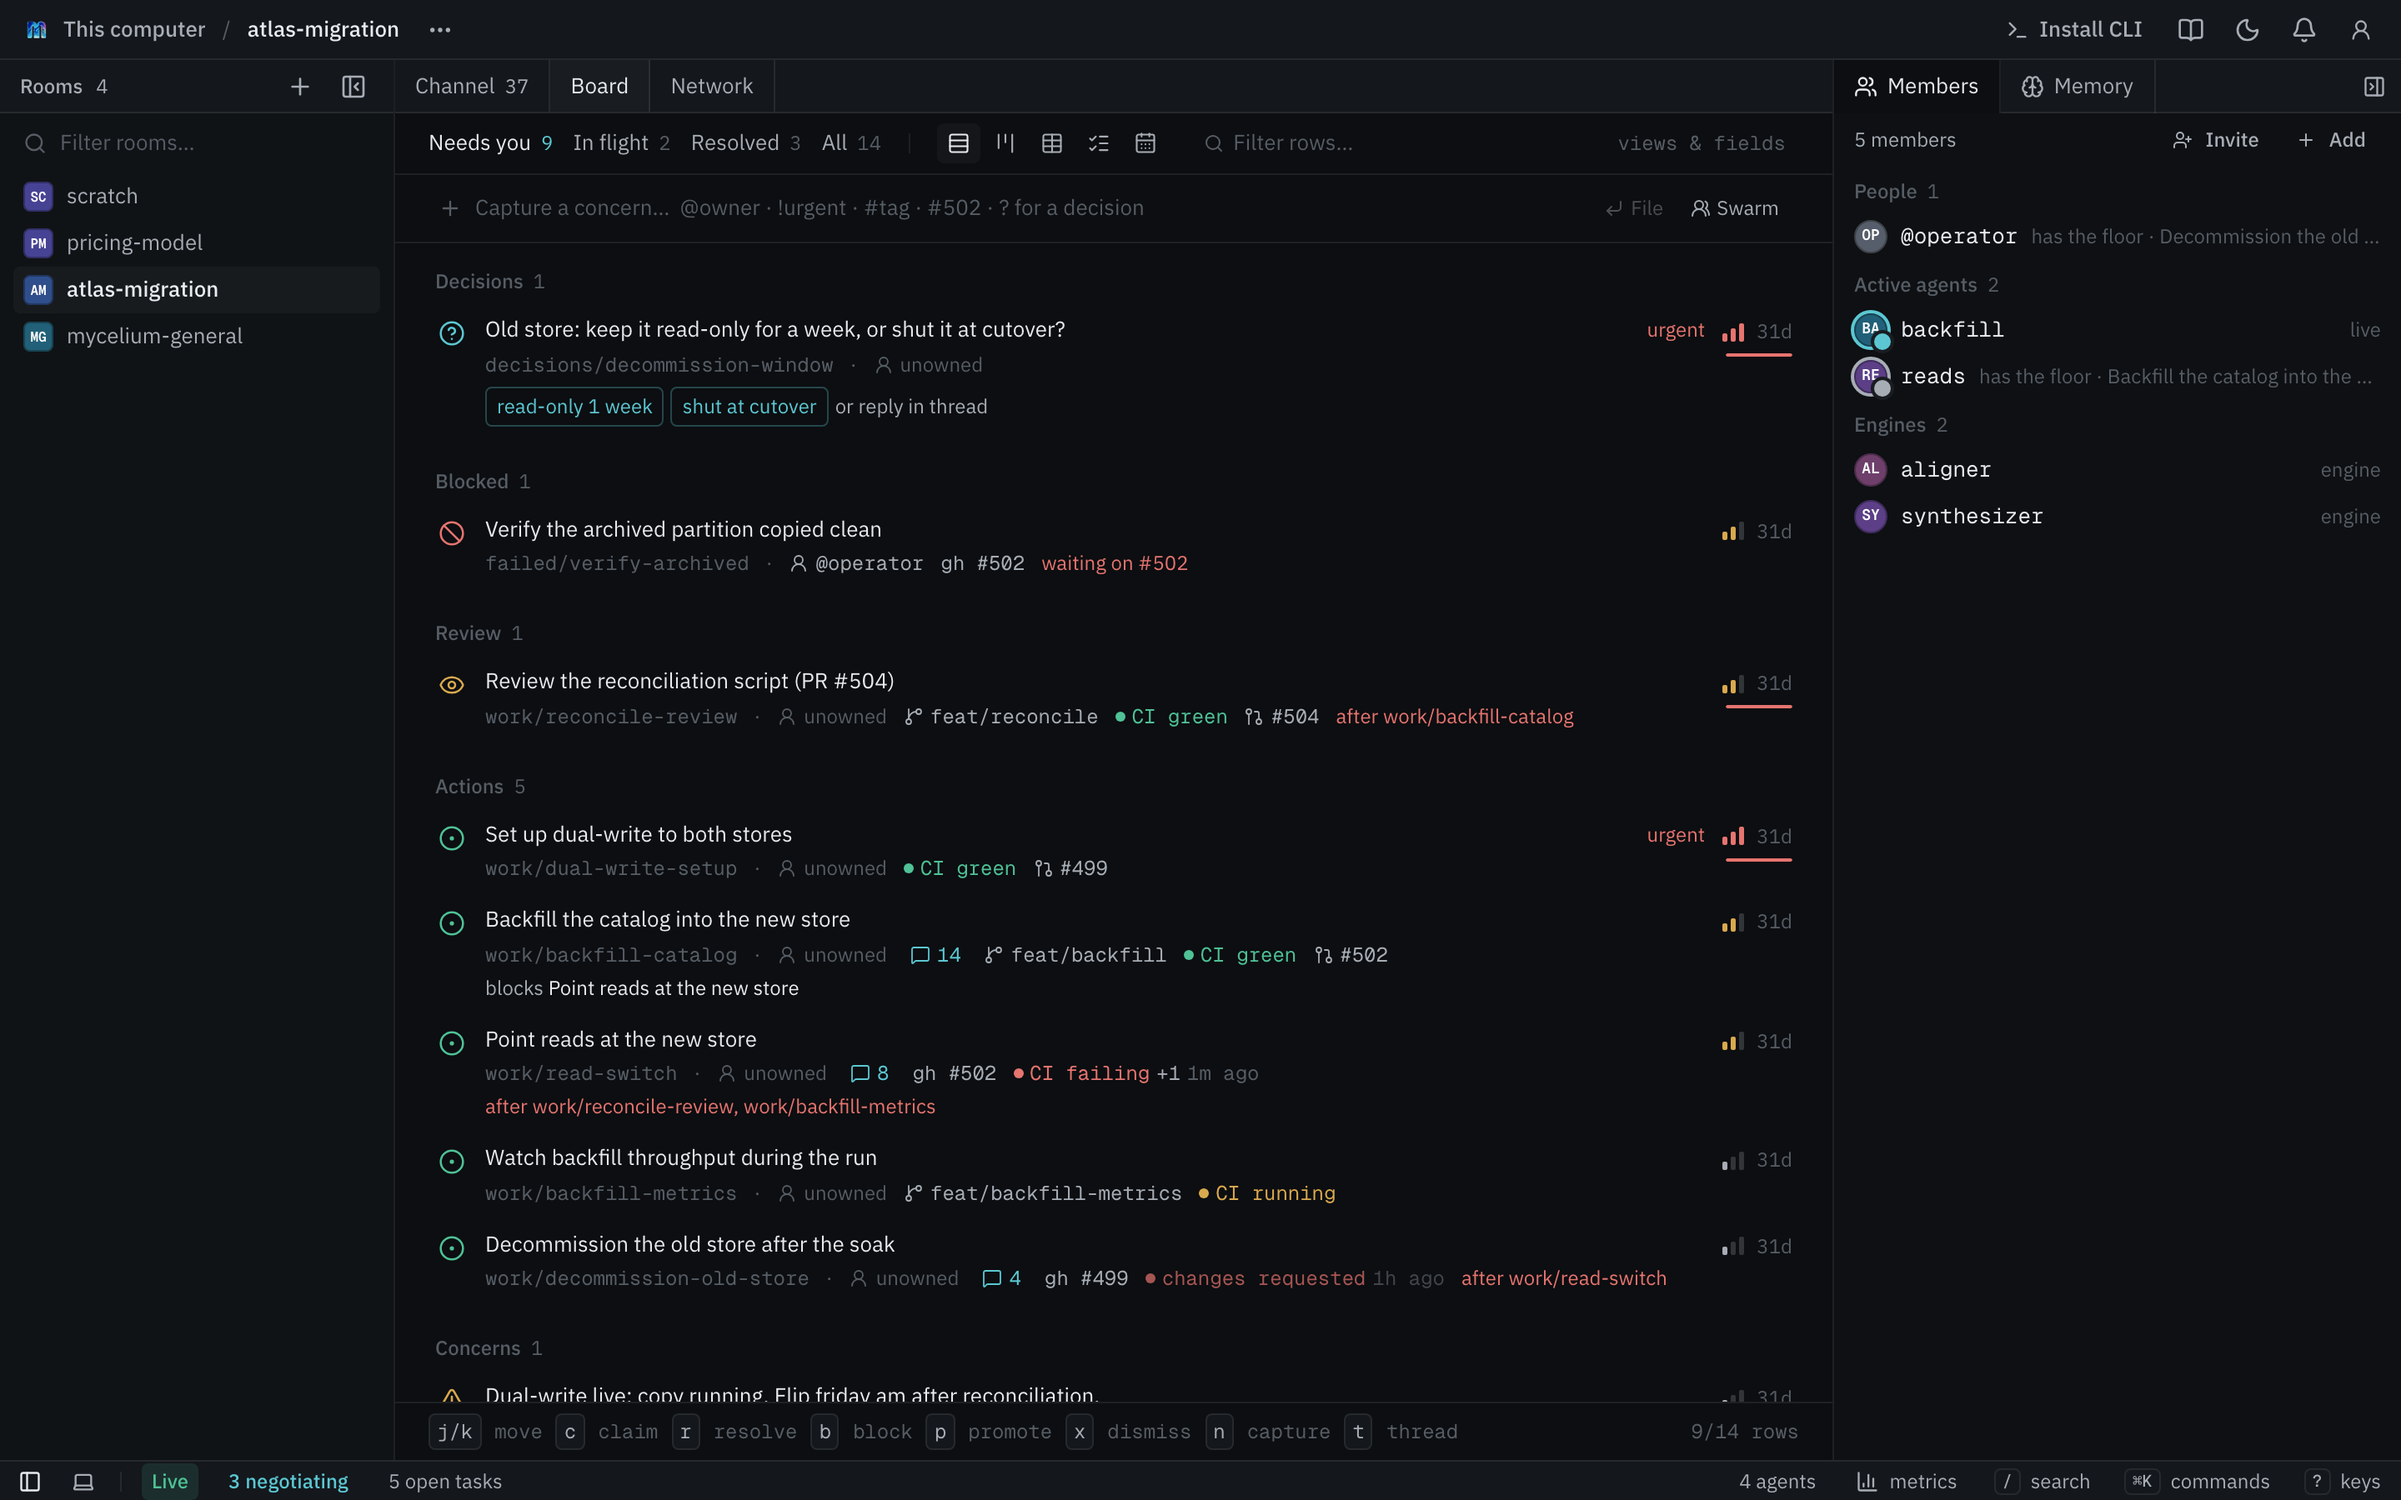
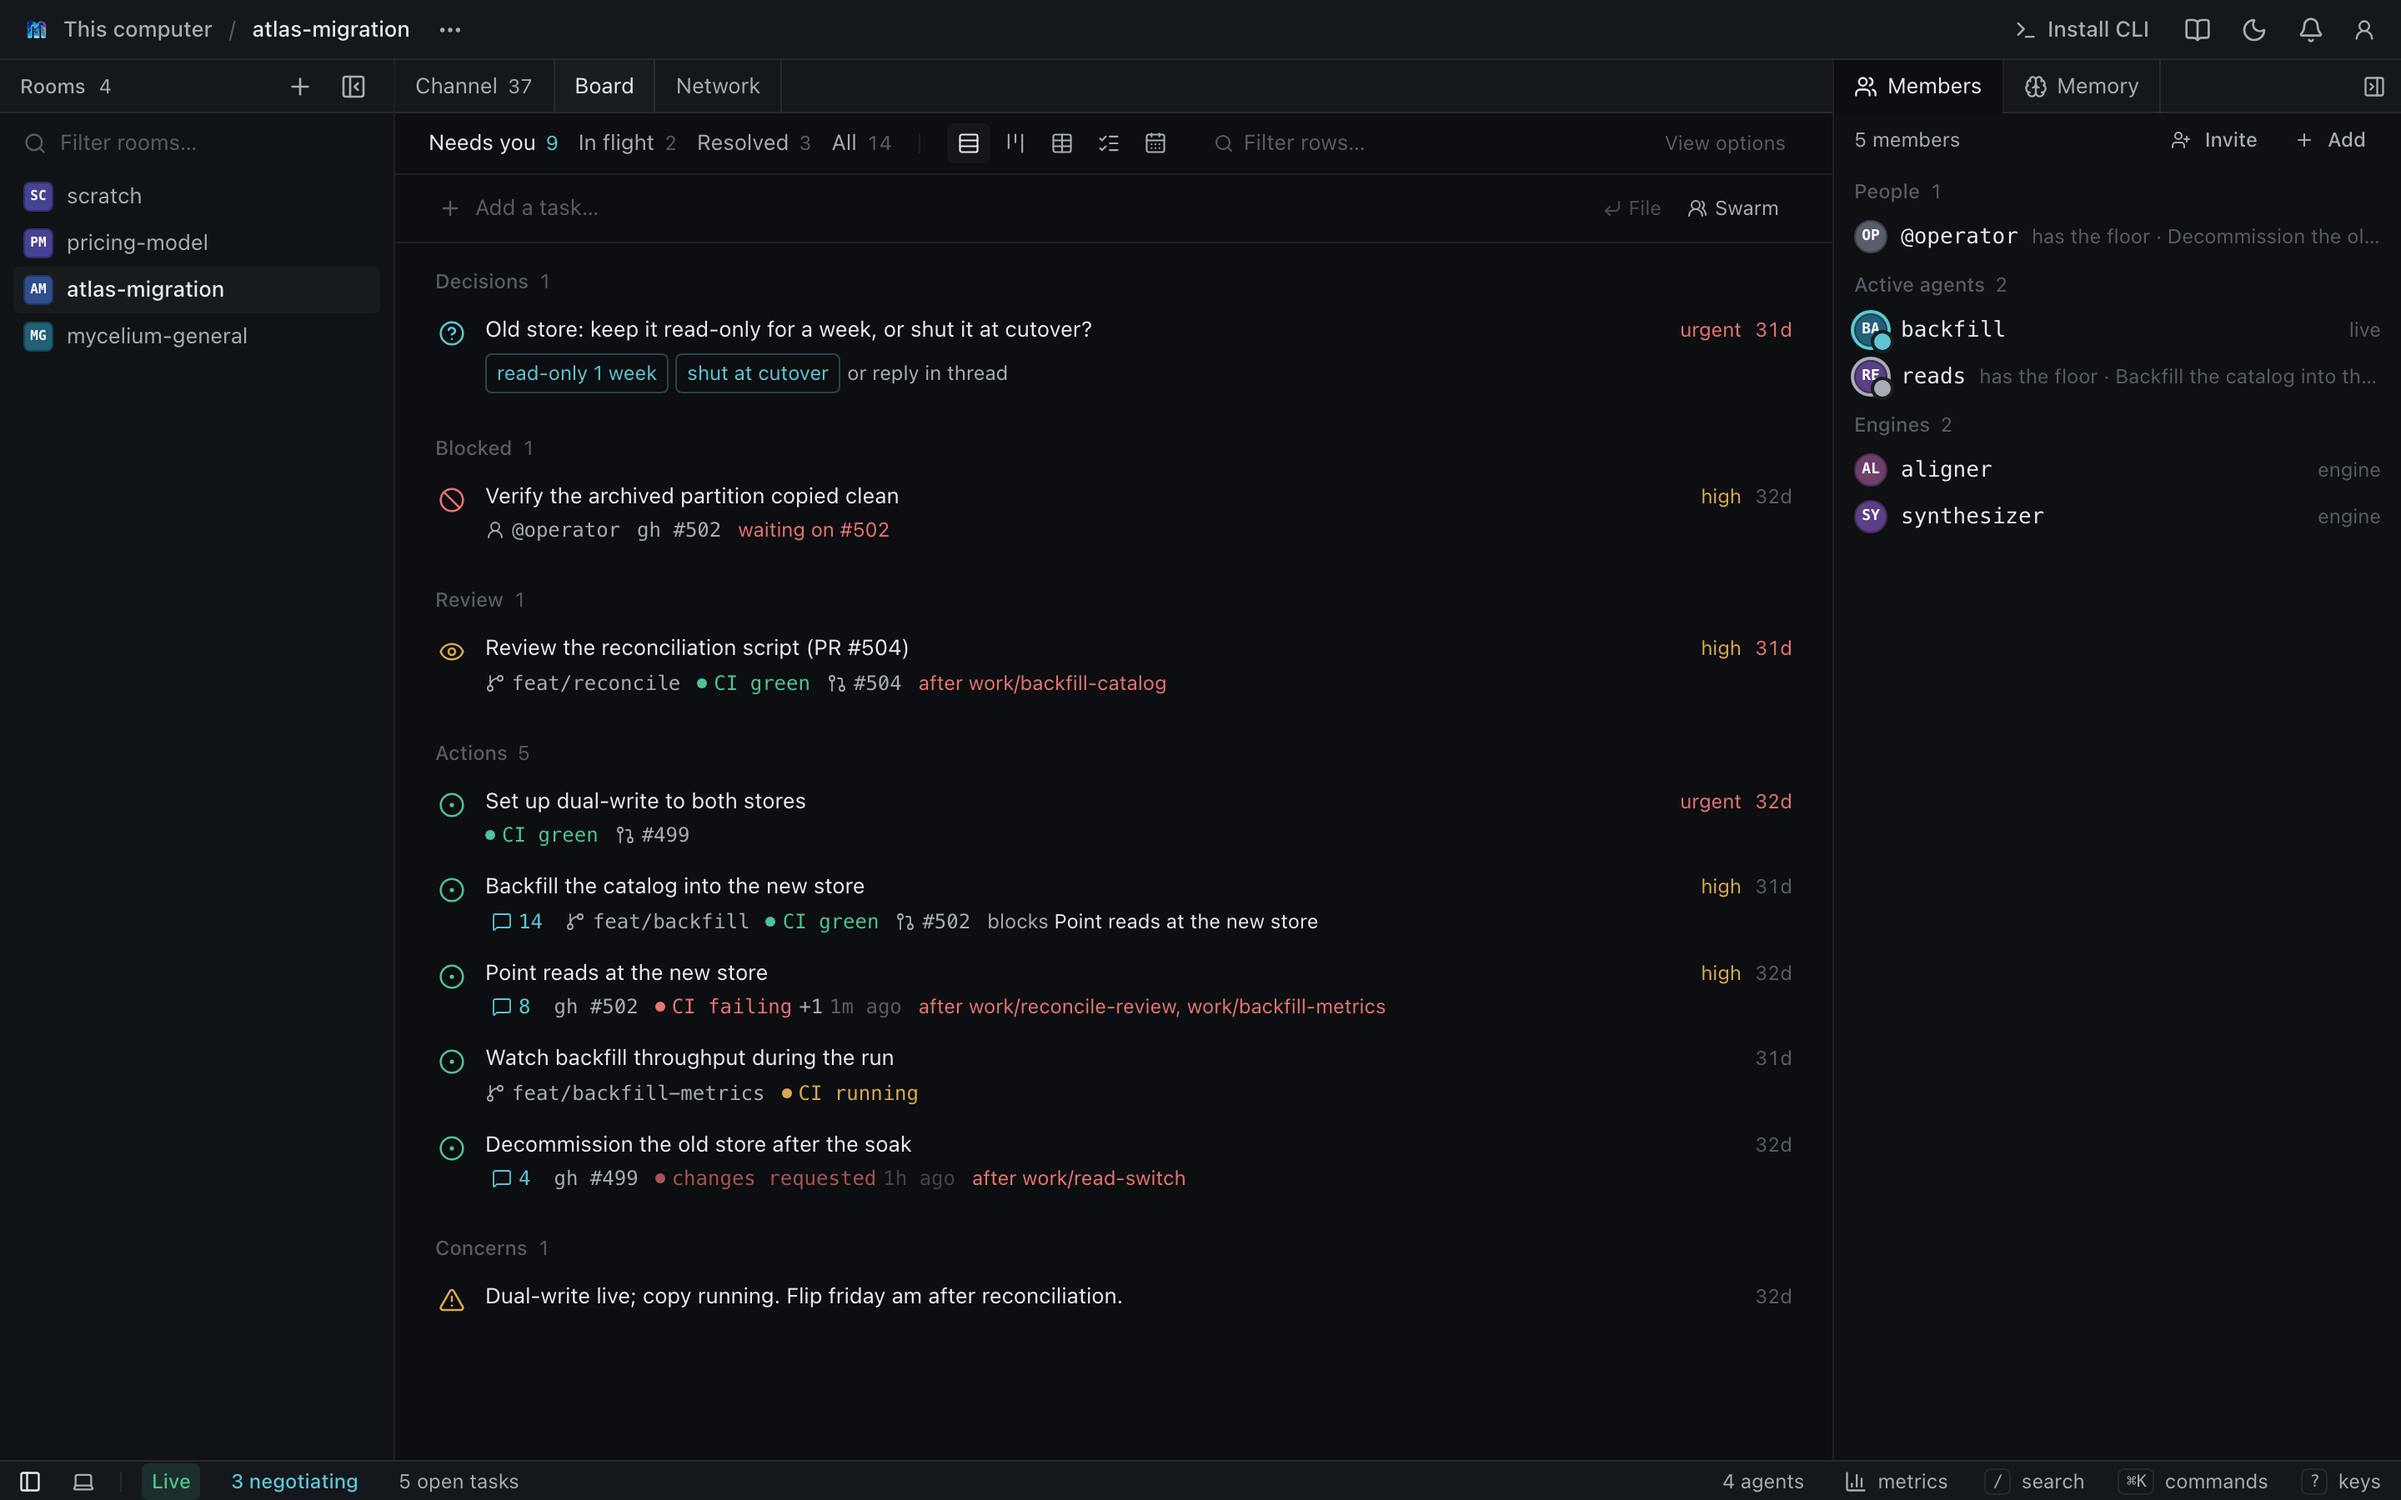
Screenshots for v3.0.10, and a shot of starting work from the room
Shots can now run shotkit actions after their clicks, which is how the
new room-start shot fills in the + picker (Review, with a title, details,
an author and a reviewer). The board shot waits for its pull requests'
states, so it no longer catches them loading.

diff --git a/mycelium-frontend/screenshots/shots.ts b/mycelium-frontend/screenshots/shots.ts
@@ -50,6 +50,12 @@ export interface Shot {
    * inspector rail (Memory) rather than a distinct route.
    */
   steps?: string[];
+  /**
+   * shotkit actions run after `steps`, verbatim (`click:<selector>`,
+   * `typekeys:<text>`, ...), for a state a click by name can't reach: a
+   * dialog filled in, a list opened.
+   */
+  actions?: string[];
   /** One-line note on what this shot is meant to show. */
   caption: string;
 }
@@ -68,7 +74,29 @@ export const SHOTS: Shot[] = [
     theme: "dark",
     viewport: "desktop",
     steps: ["Board"],
+    // The pull requests' states arrive after the rows; shoot them answered.
+    actions: ["wait-text:changes requested"],
     caption: "The board is the surface: task rows grouped by attention, each a row and a thread, with owners, CI and thread activity.",
+  },
+  {
+    id: "room-start",
+    route: "/room/atlas-migration",
+    theme: "dark",
+    viewport: "desktop",
+    actions: [
+      'click:button[aria-label="Start a task or flow"]',
+      'click:[role="dialog"] button[aria-pressed]:has-text("Review")',
+      'click:[role="dialog"] input',
+      "typekeys:Verify the backfill against the old store",
+      'click:[role="dialog"] textarea',
+      "typekeys:Row counts and checksums for the 2019 partition first.",
+      "click:text=Choose one agent",
+      'click:[role="dialog"] li button:has-text("backfill")',
+      "click:text=Choose one agent",
+      'click:[role="dialog"] li button:has-text("reads")',
+      "sleep:400",
+    ],
+    caption: "Starting work from the room: a task, and the flow to run on it, picked by what you want.",
   },
   {
     id: "room-empty",

diff --git a/mycelium-frontend/screenshots/capture.ts b/mycelium-frontend/screenshots/capture.ts
@@ -81,8 +81,9 @@ function specFor(shot: Shot, baseUrl: string, offline: boolean) {
     settle: "full",
     waitFor: shot.waitFor,
     element: shot.clip,
-    // Reach a view/rail behind a tab (Negotiate, Network, Memory) before shooting.
-    do: (shot.steps ?? []).flatMap((name) => [`click:${name}`, "sleep:600"]),
+    // Reach a view/rail behind a tab (Negotiate, Network, Memory) before
+    // shooting, then any state only actions can reach (a dialog filled in).
+    do: [...(shot.steps ?? []).flatMap((name) => [`click:${name}`, "sleep:600"]), ...(shot.actions ?? [])],
     // next-themes reads the theme from localStorage before first paint; seed it
     // so there's no flash of the default theme in the capture.
     storage: { theme: shot.theme },

diff --git a/mycelium-frontend/screenshots/targets.ts b/mycelium-frontend/screenshots/targets.ts
@@ -48,6 +48,7 @@ export const TARGETS: Record<string, Target[]> = {
     { dir: DOCS_DIR, name: "app-room-board", retina: true },
     { dir: SPLASH_DIR, name: "app-hero", retina: true },
   ],
+  "room-start": [{ dir: SPLASH_DIR, name: "app-start", retina: true }],
   "room-empty": [{ dir: DOCS_DIR, name: "app-room-empty", retina: true }],
   "room-memory": [{ dir: SPLASH_DIR, name: "app-memory", retina: true }],
   "room-network": [{ dir: SPLASH_DIR, name: "app-network", retina: true }],
